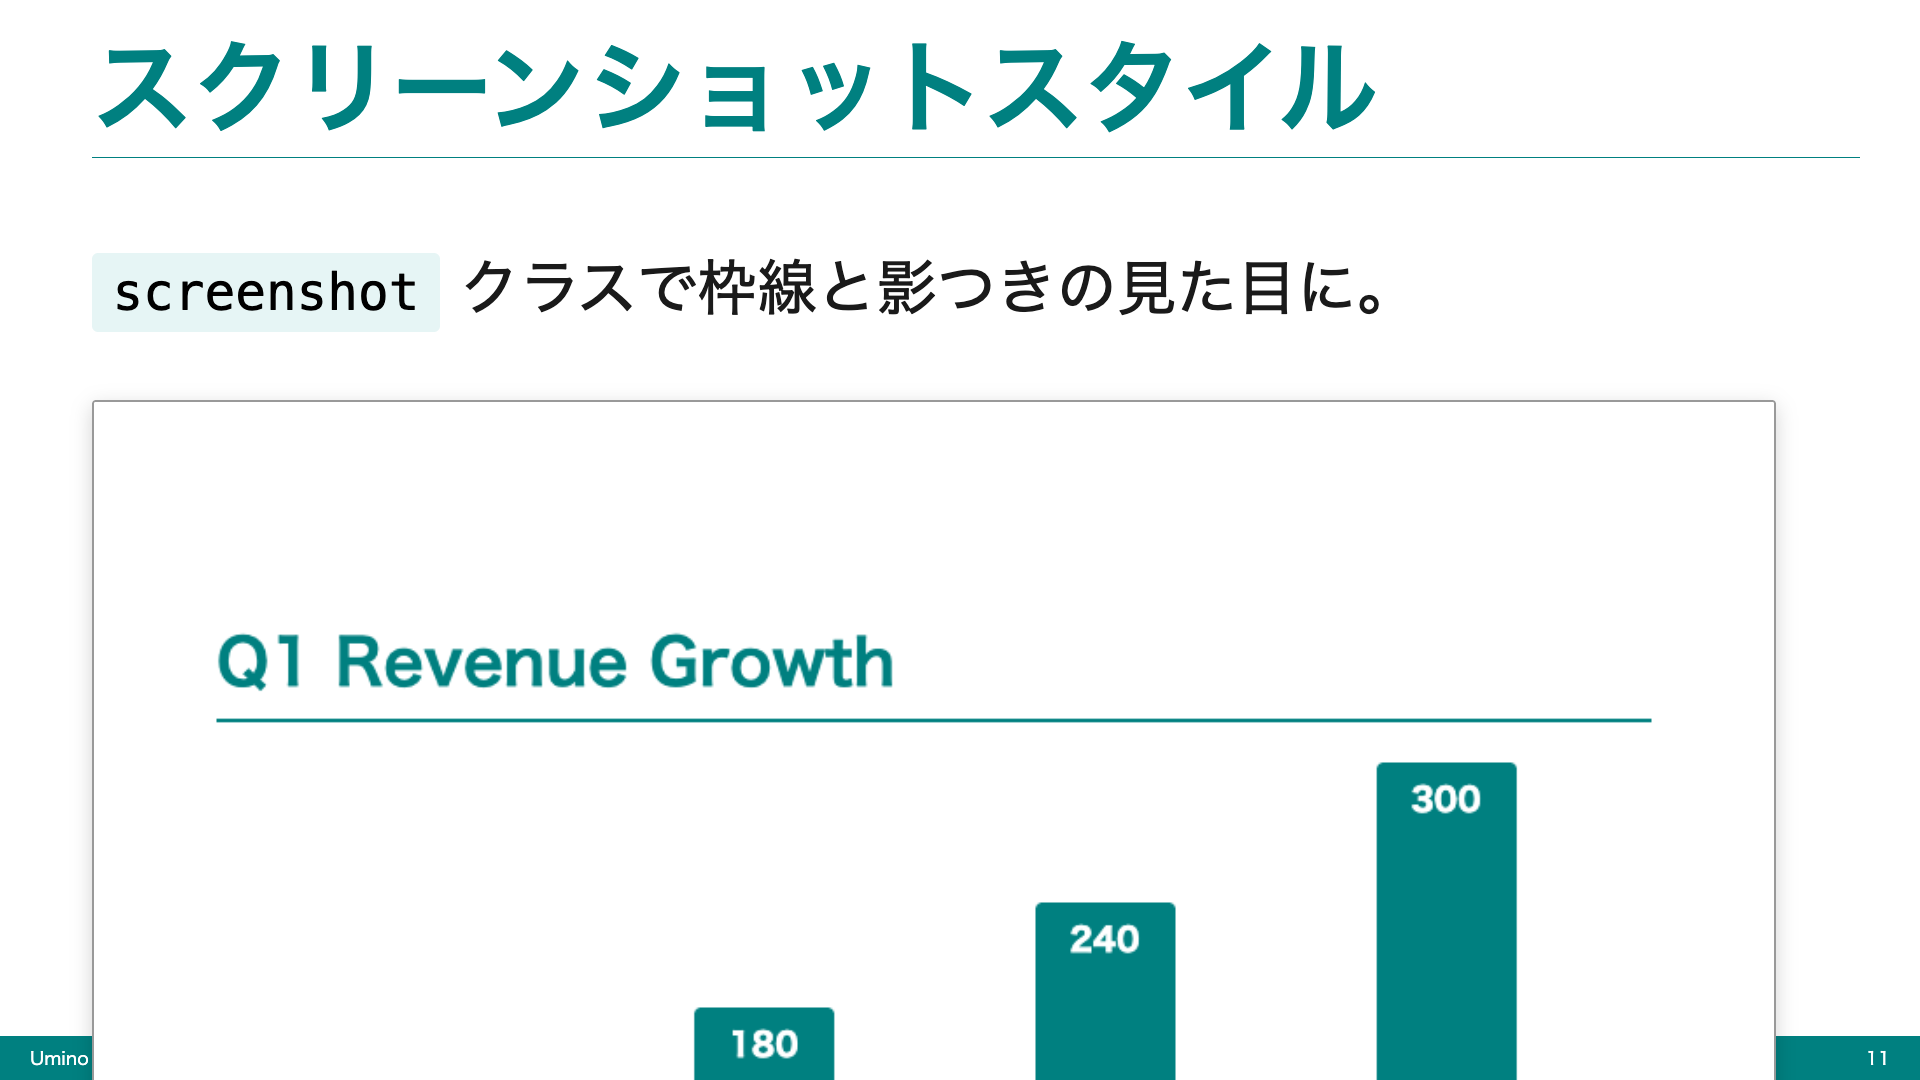
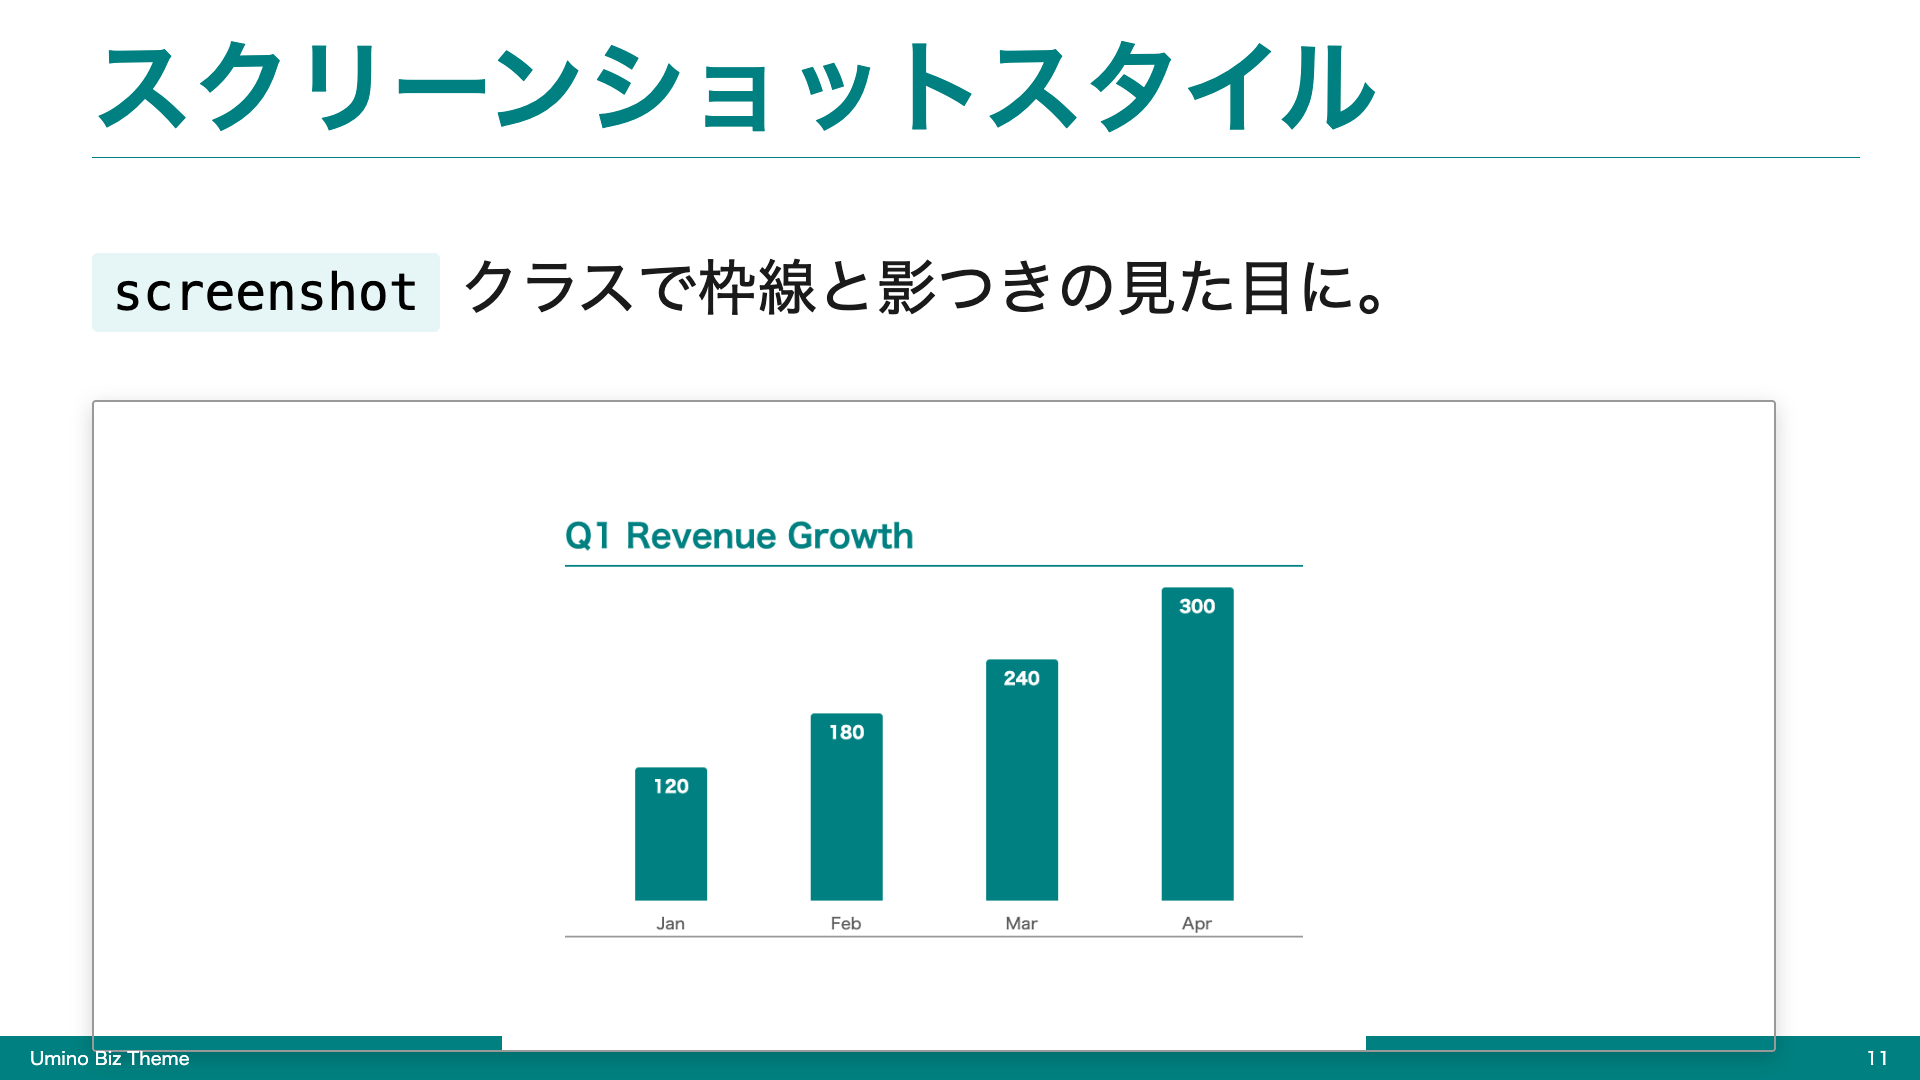
Fix screenshot image overflow with max-height

Changed region(s): [[0.0312, 0.5194, 0.9375, 1.0], [0.3125, 0.7028, 0.375, 0.8861], [0.2812, 0.4889, 0.4688, 0.5194]]

diff --git a/umino-biz.css b/umino-biz.css
@@ -1027,6 +1027,9 @@ section[data-marpit-advanced-background="content"] > header {
 /* ========== スクリーンショット用の画像スタイル ========== */
 img.screenshot {
     max-width: 95%;
+    max-height: 60vh;
+    height: auto;
+    object-fit: contain;
     border: 2px solid #999999;
     box-shadow: 0 6px 20px rgba(0, 0, 0, 0.18);
     border-radius: 4px;
